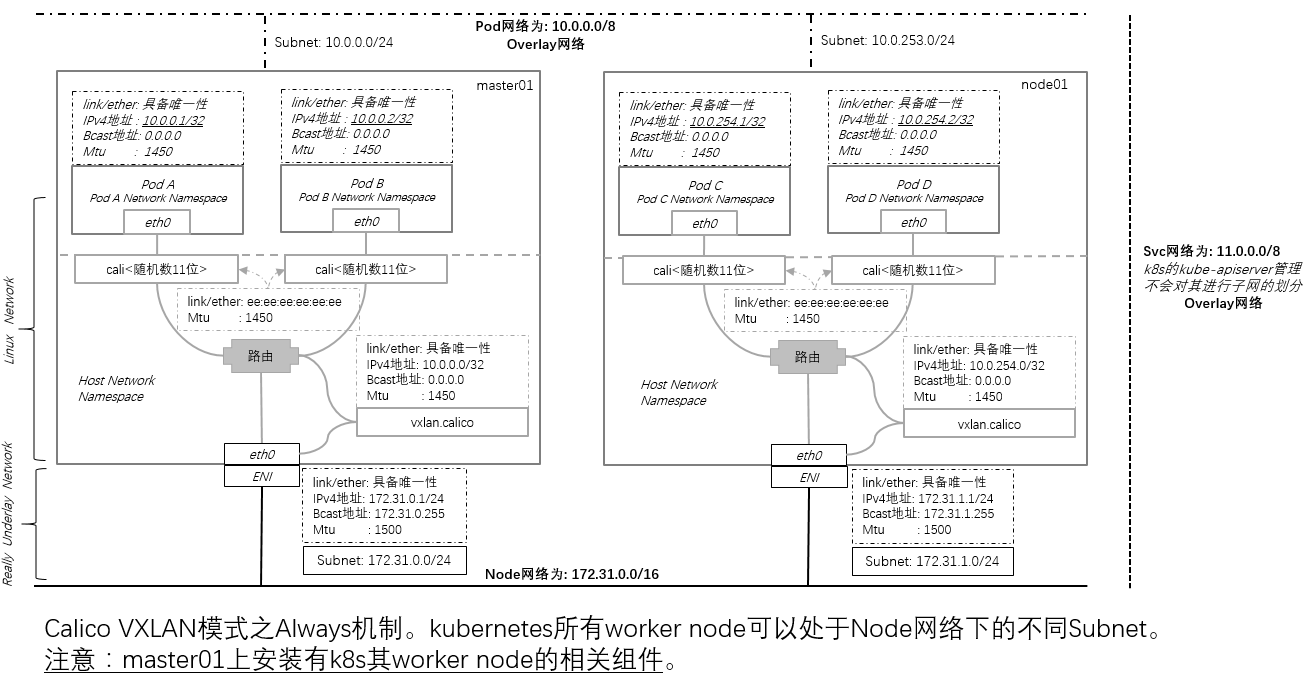
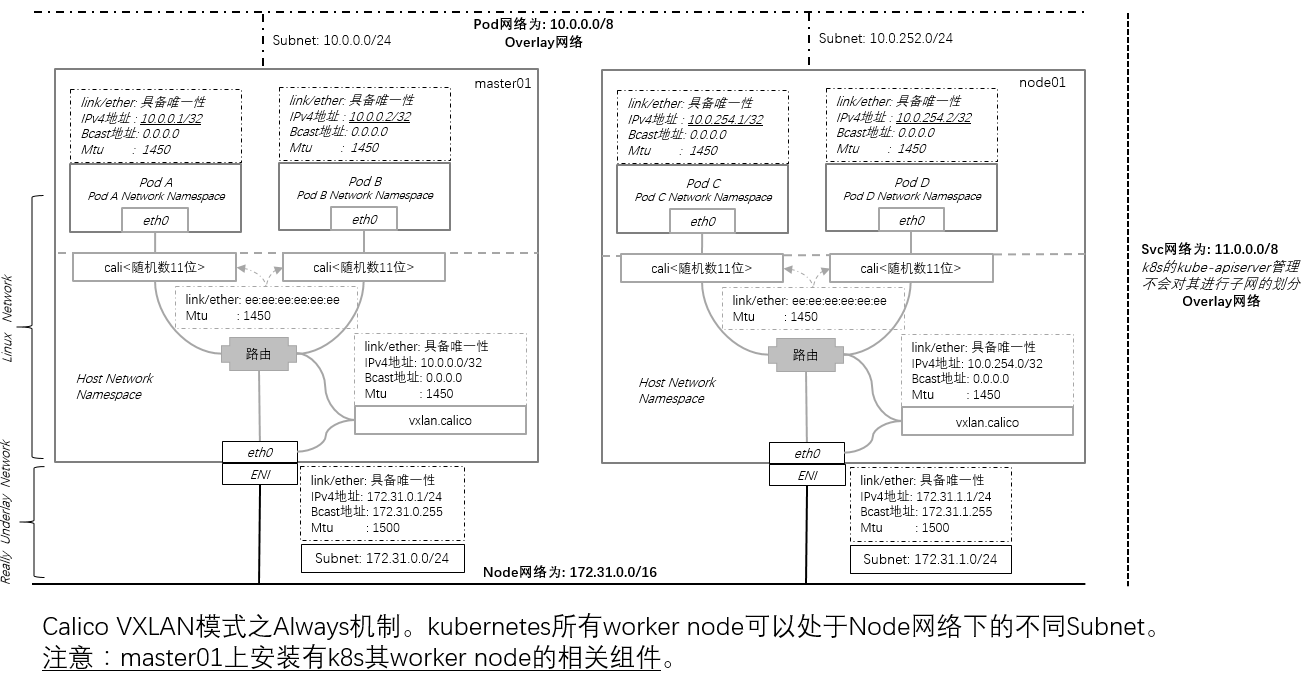
modified

diff --git a/90.Addons/01.cni/02.calico/01.manifests-install-v3.26.5/04.kubernetes-api-datastore-more-than-50-nodes-but-VXLAN-Always/install-step-and-describe.md b/90.Addons/01.cni/02.calico/01.manifests-install-v3.26.5/04.kubernetes-api-datastore-more-than-50-nodes-but-VXLAN-Always/install-step-and-describe.md
@@ -12,15 +12,19 @@ Destination     Gateway         Genmask         Flags Metric Ref    Use Iface
 10.0.0.3        0.0.0.0         255.255.255.255 UH    0      0        0 cali<随机数11位>
 ........        .......         255.255.255.255 UH    0      0        0 cali<随机数11位>
 ........        .......         255.255.255.255 UH    0      0        0 cali<随机数11位>
-10.0.0.255      0.0.0.0         255.255.255.255 UH    0      0        0 cali<随机数11位>   # node01宿主机上相关Pod副本(例如IP为10.0.0.255)在本机的路由
+10.0.0.255      0.0.0.0         255.255.255.255 UH    0      0        0 cali<随机数11位>   # node01宿主机上相关Pod副本(例如IP为10.0.0.255)在本机的路由 
 
 10.0.1.0        10.0.1.0        255.255.255.0   UG    0      0        0 vxlan.calico 
 10.0.2.0        10.0.2.0        255.255.255.0   UG    0      0        0 vxlan.calico 
 10.0.3.0        10.0.3.0        255.255.255.0   UG    0      0        0 vxlan.calico 
 ........        ........        255.255.255.0   UG    0      0        0 vxlan.calico
 ........        ........        255.255.255.0   UG    0      0        0 vxlan.calico
-10.0.252.0      10.0.252.0      255.255.255.0   UG    0      0        0 vxlan.calico       # node01宿主机所在Node网络下其Sbunet中其它宿主机从Pod网分得subnet的路由
+10.0.251.0      10.0.251.0      255.255.255.0   UG    0      0        0 vxlan.calico       # node01宿主机所在Node网络下其Sbunet中其它宿主机从Pod网分得subnet的路由  
 
+0.0.0.0         172.31.0.253    0.0.0.0         UG    0      0        0 eth0               # node01到所处Node网络下Subnet其网关的路由 
+172.31.0.0      0.0.0.0         255.255.255.0   U     0      0        0 eth0               # node01到所处Node网络下Subnet其网关的路由 
+
+10.0.252.0      10.0.252.0      255.255.255.0   UG    0      0        0 vxlan.calico      
 10.0.253.0      10.0.253.0      255.255.255.0   UG    0      0        0 vxlan.calico      
 10.0.254.0      10.0.254.0      255.255.255.0   UG    0      0        0 vxlan.calico
 10.0.255.0      10.0.255.0      255.255.255.0   UG    0      0        0 vxlan.calico
@@ -28,53 +32,63 @@ Destination     Gateway         Genmask         Flags Metric Ref    Use Iface
 10.1.1.0        10.1.1.0        255.255.255.0   UG    0      0        0 vxlan.calico
 ............    ............    255.255.255.0   UG    0      0        0 vxlan.calico
 ............    ............    255.255.255.0   UG    0      0        0 vxlan.calico     
-10.1.248.0      10.1.248.0      255.255.255.0   UG    0      0        0 vxlan.calico       # node01宿主机所在Node网绺下其Subnet之外Subnet中相关宿主机从Pod网络分得subnet的路由
-
-0.0.0.0         172.31.0.253    0.0.0.0         UG    0      0        0 eth0               # node01到所处Node网络下Subnet其网关的路由 
-172.31.0.0      0.0.0.0         255.255.255.0   U     0      0        0 eth0               # node01到所处Node网络下Subnet其网关的路由 
+10.1.247.0      10.1.247.0      255.255.255.0   UG    0      0        0 vxlan.calico       # node01宿主机所在Node网绺下其Subnet之外Subnet中相关宿主机从Pod网络分得subnet的路由 
 ```
 
 **Node网络下Subnet(172.31.0.0/24)下的节点(k8s node02)**
 ```
 Destination     Gateway         Genmask         Flags Metric Ref    Use Iface
-10.0.1.0        0.0.0.0         255.255.255.0   U     0      0        0 *
+10.0.1.0        0.0.0.0         255.255.255.0   U     0      0        0 * 
 10.0.1.1        0.0.0.0         255.255.255.255 UH    0      0        0 cali<随机数11位>
 10.0.1.2        0.0.0.0         255.255.255.255 UH    0      0        0 cali<随机数11位>
 10.0.1.3        0.0.0.0         255.255.255.255 UH    0      0        0 cali<随机数11位>
 ........        .......         255.255.255.255 UH    0      0        0 cali<随机数11位>
 ........        .......         255.255.255.255 UH    0      0        0 cali<随机数11位>
-10.0.1.255      0.0.0.0         255.255.255.255 UH    0      0        0 cali<随机数11位>   # node02宿主机上相关Pod副本(例如IP为10.0.1.255)在本机的路由
+10.0.1.255      0.0.0.0         255.255.255.255 UH    0      0        0 cali<随机数11位>   # node02宿主机上相关Pod副本(例如IP为10.0.1.255)在本机的路由  
 
 10.0.0.0        10.0.0.0        255.255.255.0   UG    0      0        0 vxlan.calico 
 10.0.2.0        10.0.2.0        255.255.255.0   UG    0      0        0 vxlan.calico 
-10.0.3.0        10.0.3.0        255.255.255.0   UG    0      0        0 vxlan.calico
+10.0.3.0        10.0.3.0        255.255.255.0   UG    0      0        0 vxlan.calico 
 ........        ........        255.255.255.0   UG    0      0        0 vxlan.calico
 ........        ........        255.255.255.0   UG    0      0        0 vxlan.calico
-10.0.252.0      10.0.252.0      255.255.255.0   UG    0      0        0 vxlan.calico       # node02宿主机所在Node网络下其Sbunet中其它宿主机从Pod网分得subnet的路由
+10.0.251.0      10.0.251.0      255.255.255.0   UG    0      0        0 vxlan.calico       # node02宿主机所在Node网络下其Sbunet中其它宿主机从Pod网分得subnet的路由  
 
-10.0.253.0      10.0.253.0      255.255.255.0   UG    0      0        0 vxlan.calico       
+0.0.0.0         172.31.0.253    0.0.0.0         UG    0      0        0 eth0               # node02到所处Node网络下Subnet其网关的路由  
+172.31.0.0      0.0.0.0         255.255.255.0   U     0      0        0 eth0               # node02到所处Node网络下Subnet其网关的路由  
+
+10.0.252.0      10.0.252.0      255.255.255.0   UG    0      0        0 vxlan.calico    
+10.0.253.0      10.0.253.0      255.255.255.0   UG    0      0        0 vxlan.calico    
+10.0.254.0      10.0.254.0      255.255.255.0   UG    0      0        0 vxlan.calico
+10.0.255.0      10.0.255.0      255.255.255.0   UG    0      0        0 vxlan.calico
+10.1.0.0        10.1.0.0        255.255.255.0   UG    0      0        0 vxlan.calico
+10.1.1.0        10.1.1.0        255.255.255.0   UG    0      0        0 vxlan.calico
+............    ............    255.255.255.0   UG    0      0        0 vxlan.calico
+............    ............    255.255.255.0   UG    0      0        0 vxlan.calico           
+10.1.247.0      10.1.247.0      255.255.255.0   UG    0      0        0 vxlan.calico       # node02宿主机所在Node网绺下其Subnet之外Subnet中相关宿主机从Pod网络分得subnet的路由
+```
+
+**Node网络下Subnet(172.31.1.0/24)下的节点(k8s node253)**
+```
+Destination     Gateway         Genmask         Flags Metric Ref    Use Iface
+10.0.252.0      0.0.0.0         255.255.255.0   U     0      0        0 *
+10.0.252.1      0.0.0.0         255.255.255.255 UH    0      0        0 cali<随机数11位>
+10.0.252.2      0.0.0.0         255.255.255.255 UH    0      0        0 cali<随机数11位>
+10.0.252.3      0.0.0.0         255.255.255.255 UH    0      0        0 cali<随机数11位>
+..........      .......         255.255.255.255 UH    0      0        0 cali<随机数11位>
+..........      .......         255.255.255.255 UH    0      0        0 cali<随机数11位>
+10.0.252.255    0.0.0.0         255.255.255.255 UH    0      0        0 cali<随机数11位>   # node253宿主机上相关Pod副本(例如IP为10.0.252.255)在本机的路由
+
+10.0.253.0      10.0.253.0      255.255.255.0   UG    0      0        0 vxlan.calico
 10.0.254.0      10.0.254.0      255.255.255.0   UG    0      0        0 vxlan.calico
 10.0.255.0      10.0.255.0      255.255.255.0   UG    0      0        0 vxlan.calico
 10.1.0.0        10.1.0.0        255.255.255.0   UG    0      0        0 vxlan.calico
 10.1.1.0        10.1.1.0        255.255.255.0   UG    0      0        0 vxlan.calico
 ............    ............    255.255.255.0   UG    0      0        0 vxlan.calico
 ............    ............    255.255.255.0   UG    0      0        0 vxlan.calico
-10.1.248.0      10.1.248.0      255.255.255.0   UG    0      0        0 vxlan.calico       # node02宿主机所在Node网绺下其Subnet之外Subnet中相关宿主机从Pod网络分得subnet的路由
+10.1.247.0      10.1.247.0      255.255.255.0   UG    0      0        0 vxlan.calico       # node253宿主机所在Node网络下其Sbunet中其它宿主机从Pod网分得subnet的路由
 
-0.0.0.0         172.31.0.253    0.0.0.0         UG    0      0        0 eth0               # node02到所处Node网络下Subnet其网关的路由 
-172.31.0.0      0.0.0.0         255.255.255.0   U     0      0        0 eth0               # node02到所处Node网络下Subnet其网关的路由
-```
-
-**Node网络下Subnet(172.31.1.0/24)下的节点(k8s node253)**
-```
-Destination     Gateway         Genmask         Flags Metric Ref    Use Iface
-10.0.253.0      0.0.0.0         255.255.255.0   U     0      0        0 *
-10.0.253.1      0.0.0.0         255.255.255.255 UH    0      0        0 cali<随机数11位>
-10.0.253.2      0.0.0.0         255.255.255.255 UH    0      0        0 cali<随机数11位>
-10.0.253.3      0.0.0.0         255.255.255.255 UH    0      0        0 cali<随机数11位>
-..........      .......         255.255.255.255 UH    0      0        0 cali<随机数11位>
-..........      .......         255.255.255.255 UH    0      0        0 cali<随机数11位>
-10.0.253.255    0.0.0.0         255.255.255.255 UH    0      0        0 cali<随机数11位>   # node253宿主机上相关Pod副本(例如IP为10.0.253.255)在本机的路由
+0.0.0.0         172.31.1.253    0.0.0.0         UG    0      0        0 eth0               # node253到所处Node网络下Subnet其网关的路由
+172.31.1.0      0.0.0.0         255.255.255.0   U     0      0        0 eth0               # node253到所处Node网络下Subnet其网关的路由
 
 10.0.0.0        10.0.0.0        255.255.255.0   UG    0      0        0 vxlan.calico
 10.0.1.0        10.0.1.0        255.255.255.0   UG    0      0        0 vxlan.calico
@@ -82,18 +96,7 @@ Destination     Gateway         Genmask         Flags Metric Ref    Use Iface
 10.0.3.0        10.0.3.0        255.255.255.0   UG    0      0        0 vxlan.calico
 ........        ........        255.255.255.0   UG    0      0        0 vxlan.calico
 ........        ........        255.255.255.0   UG    0      0        0 vxlan.calico
-10.0.252.0      10.0.252.0      255.255.255.0   UG    0      0        0 vxlan.calico       # node253宿主机所在Node网绺下其Subnet之外Subnet中相关宿主机从Pod网络分得subnet的路由 
-
-10.0.254.0      10.0.254.0      255.255.255.0   UG    0      0        0 vxlan.calico
-10.0.255.0      10.0.255.0      255.255.255.0   UG    0      0        0 vxlan.calico
-10.1.0.0        10.1.0.0        255.255.255.0   UG    0      0        0 vxlan.calico
-10.1.1.0        10.1.1.0        255.255.255.0   UG    0      0        0 vxlan.calico
-............    ............    255.255.255.0   UG    0      0        0 vxlan.calico
-............    ............    255.255.255.0   UG    0      0        0 vxlan.calico
-10.1.248.0      10.1.248.0      255.255.255.0   UG    0      0        0 vxlan.calico       # node253宿主机所在Node网络下其Sbunet中其它宿主机从Pod网分得subnet的路由 
-
-0.0.0.0         172.31.1.253    0.0.0.0         UG    0      0        0 eth0               # node253到所处Node网络下Subnet其网关的路由
-172.31.1.0      0.0.0.0         255.255.255.0   U     0      0        0 eth0               # node253到所处Node网络下Subnet其网关的路由
+10.0.251.0      10.0.251.0      255.255.255.0   UG    0      0        0 vxlan.calico       # node253宿主机所在Node网绺下其Subnet之外Subnet中相关宿主机从Pod网络分得subnet的路由 
 ```
 
 ## 1.3 同宿主机上Pod间的通信
